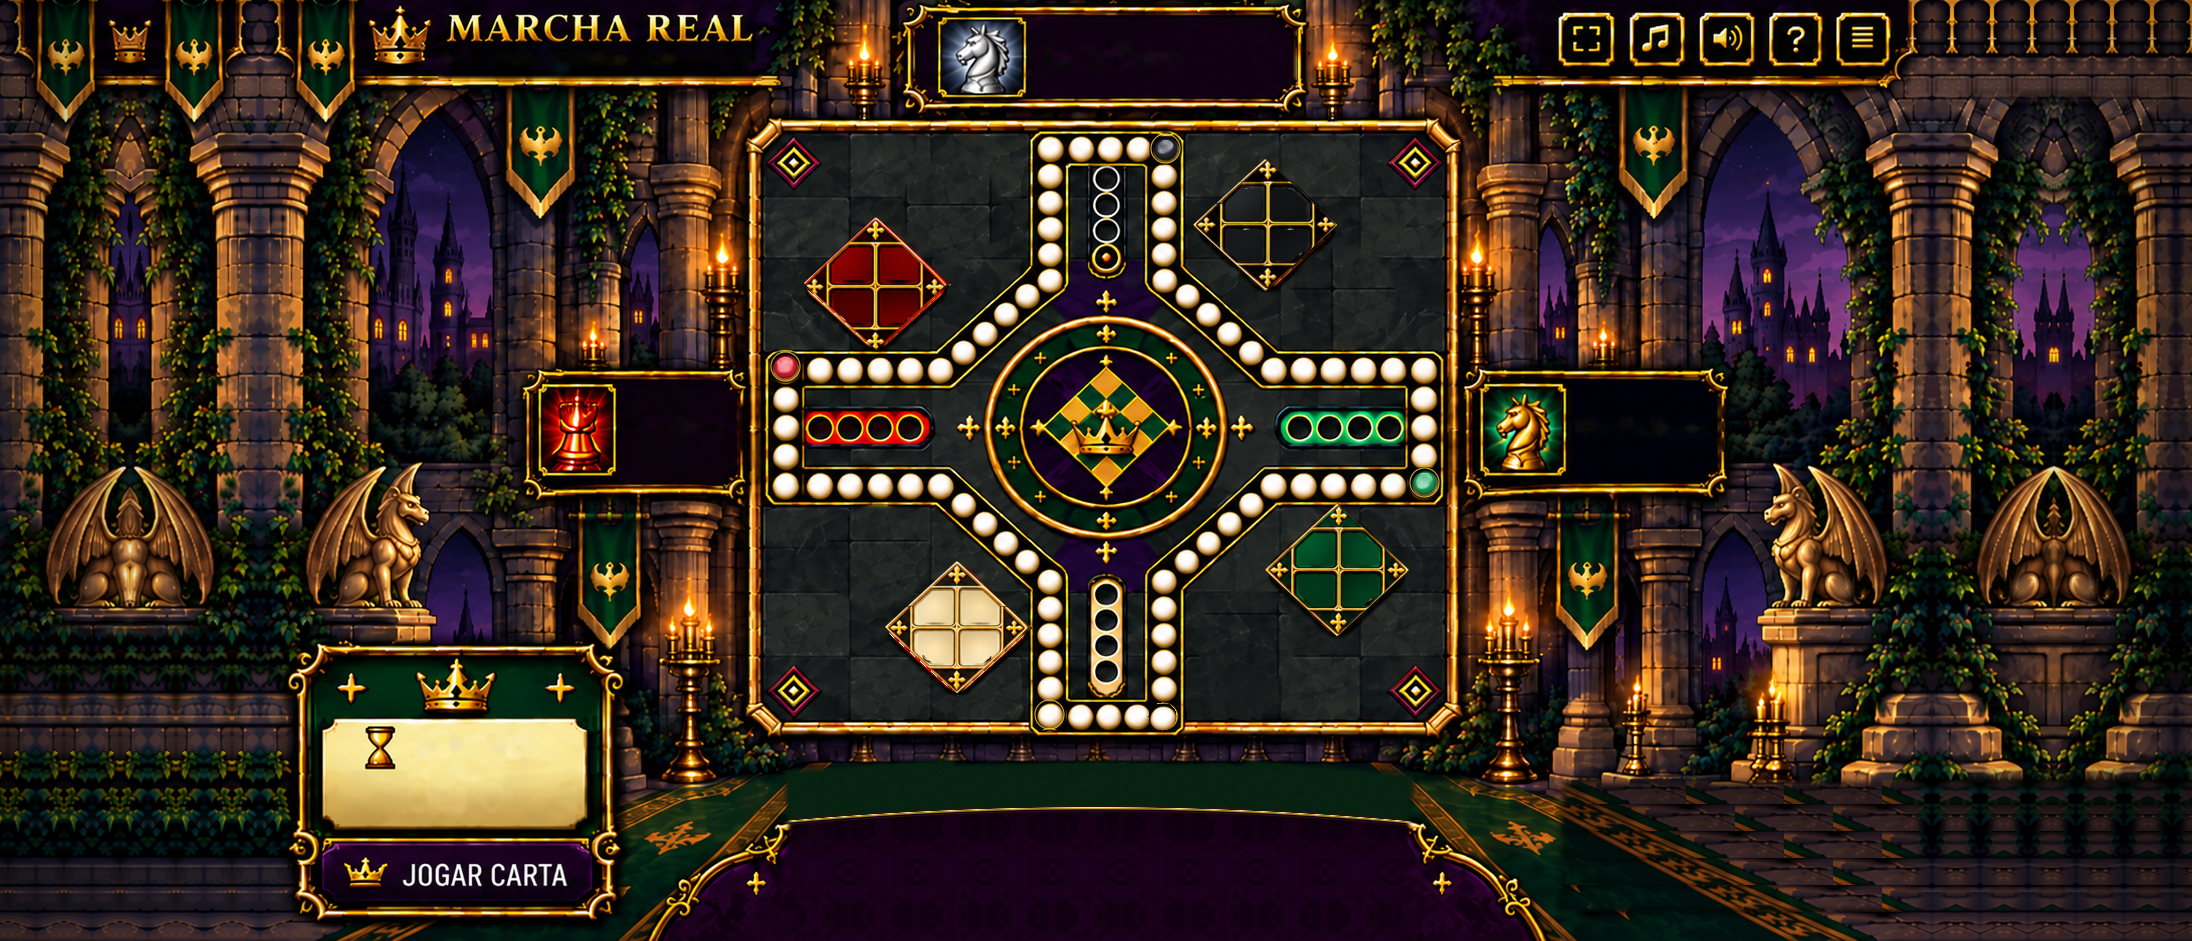
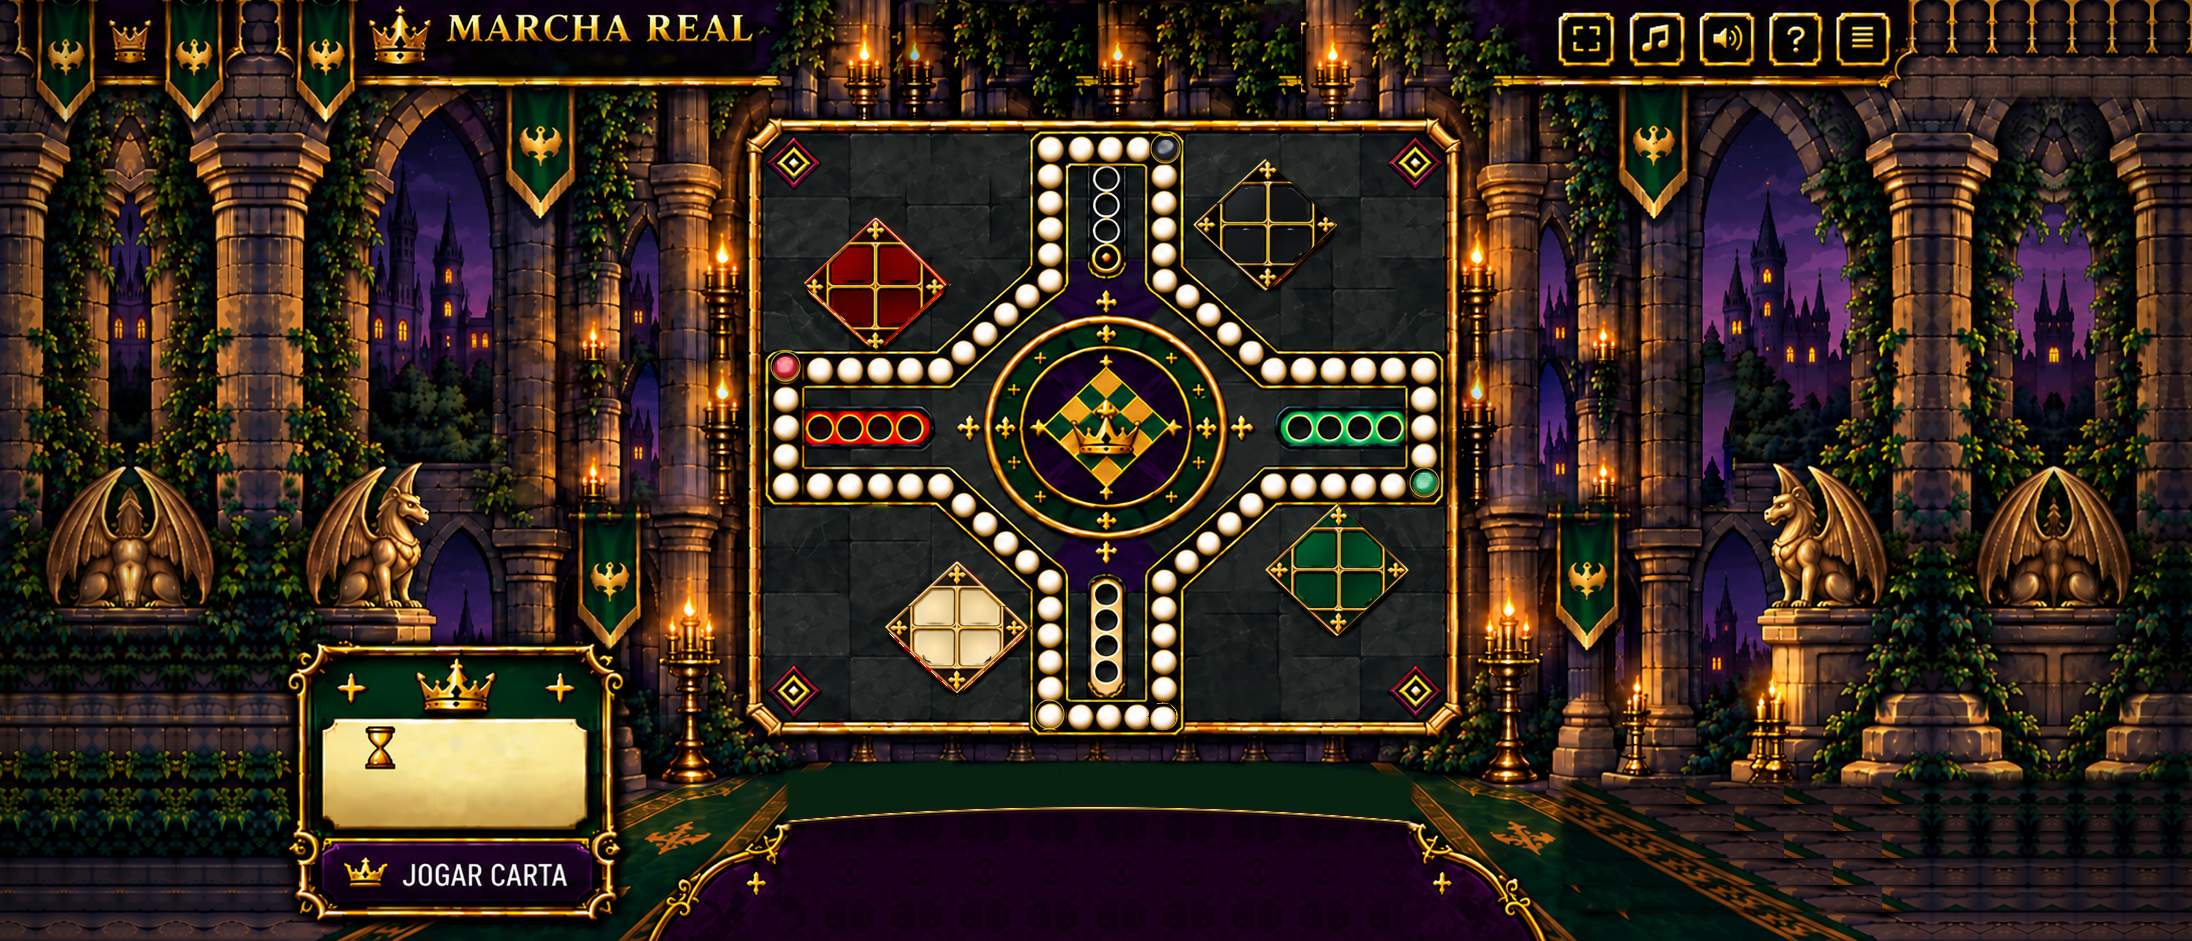
R72 · Marcha: perfis em placas iguais (PC: lado a lado no topo; celular deitado: esquerda/topo/direita)
Claude-Session: https://claude.ai/code/session_016vKvXoMfUjcNC2AWvYdkWV

Changed region(s): [[0.6515, 0.3698, 0.8066, 0.5547], [0.4033, 0.0, 0.6204, 0.1233], [0.2172, 0.3698, 0.3412, 0.5547]]

diff --git a/tools/marcha_board_r66.py b/tools/marcha_board_r66.py
@@ -202,6 +202,65 @@ def remove_panel(a, box):
     return np.clip(res + 0.5, 0, 255).astype(np.uint8)
 
 
+# ---------- R72 · perfis no topo ----------
+def fill_from_above(a, box, pad=6, feather=None, shift=None):
+    """Tira a placa: a parede logo acima desce para o lugar dela (colunas são verticais) e a emenda é resolvida
+    por clonagem de Poisson (as bordas casam com o que está em volta)."""
+    x0,y0,x1,y1 = box; x0-=pad; y0-=pad; x1+=pad; y1+=pad
+    h = y1-y0; sh = shift or h
+    m = 14
+    src = a.copy()
+    src[y0-m:y1+m, x0-m:x1+m] = a[y0-m-sh:y1+m-sh, x0-m:x1+m]
+    mask = np.zeros(a.shape[:2], np.uint8); mask[y0-m//2:y1+m//2, x0-m//2:x1+m//2] = 255
+    c = ((x0+x1)//2, (y0+y1)//2)
+    return cv2.seamlessClone(src, a, mask, c, cv2.NORMAL_CLONE)
+
+SRC_TOP = (645, 4, 1047, 112)          # placa do topo na arte original
+AV_TOP = (681, 19, 762, 94)            # moldura do retrato dentro dela
+SIDE_AV = {1: (279, 385, 355, 474), 3: (1222, 385, 1306, 474)}
+SIDE_BOX = [(262, 371, 486, 495), (1206, 371, 1465, 495)]
+PW = 240                               # largura das placas novas (altura = a da original, 108)
+def seats_top(src, mesa):
+    """R72 · a mesa fica sem as placas dos perfis (laterais e topo viram parede) e as três placas, iguais, viram
+    imagens próprias (placa_perfil_1/2/3.png, com o retrato do bot) que o jogo desenha onde o layout pedir:
+    PC = lado a lado no topo; celular deitado = esquerda / topo / direita."""
+    a = mesa.copy()
+    for b in SIDE_BOX: a = fill_from_above(a, b)
+    x0, y0, x1, y1 = SRC_TOP
+    # topo: a parede à direita da placa (vela, hera) se repete no lugar dela; emenda por Poisson
+    w = x1 - x0
+    srcimg = a.copy()
+    tile = a[0:y1 + 14, x1 + 6:x1 + 6 + w // 2 + 2]
+    for k in range(2):
+        xs = x0 - 10 + k * (w // 2 + 2)
+        srcimg[0:y1 + 14, xs:xs + tile.shape[1]] = tile[:, :min(tile.shape[1], a.shape[1] - xs)]
+    mask = np.zeros(a.shape[:2], np.uint8); mask[1:y1 + 8, x0 - 6:x1 + 6] = 255
+    a = cv2.seamlessClone(srcimg, a, mask, ((x0 + x1) // 2, (y1 + 9) // 2), cv2.NORMAL_CLONE)
+    # placas: corte da placa original com fundo transparente (o que difere da parede refeita é placa)
+    plate = src[y0:y1, x0:x1]
+    diff = np.abs(plate.astype(np.int16) - a[y0:y1, x0:x1].astype(np.int16)).sum(2)
+    # miolo da placa é sempre placa; só na borda (cantos ornamentados) o que é parede fica transparente
+    alpha = np.clip((diff - 50) * 6, 0, 255).astype(np.uint8)
+    alpha[10:-10, 10:-10] = 255
+    alpha = cv2.GaussianBlur(alpha, (0, 0), 0.7)
+    half = PW // 2
+    cut = lambda img: np.concatenate([img[:, :half], img[:, img.shape[1] - (PW - half):]], 1)
+    rgb, al = cut(plate), cut(alpha[..., None])
+    ax0, ay0, ax1, ay1 = [v - o for v, o in zip(AV_TOP, (x0, y0, x0, y0))]
+    for s in (1, 2, 3):
+        p = rgb.copy()
+        if s in SIDE_AV:
+            l, t, r, bb = SIDE_AV[s]
+            por = src[t:bb, l:r]
+            tw, th = ax1 - ax0, ay1 - ay0
+            k = max(tw / por.shape[1], th / por.shape[0])
+            big = cv2.resize(por, (int(np.ceil(por.shape[1] * k)), int(np.ceil(por.shape[0] * k))), interpolation=cv2.INTER_AREA)
+            ox, oy = (big.shape[1] - tw) // 2, (big.shape[0] - th) // 2
+            p[ay0:ay1, ax0:ax1] = big[oy:oy + th, ox:ox + tw]
+        Image.fromarray(np.concatenate([p, al], 2), "RGBA").save(os.path.join(ROOT, "marcha/art/r57/placa_perfil_%d.png" % s), optimize=True)
+    return a
+
+
 def diamond_alpha(w, h, feather=1.5):
     yy, xx = np.mgrid[0:h, 0:w].astype(np.float32)
     d = np.abs(xx - (w - 1) / 2.0) / (w / 2.0) + np.abs(yy - (h - 1) / 2.0) / (h / 2.0)
@@ -217,6 +276,8 @@ def main():
         gate_bead(mesa, (g[0] + ox, g[1] + oy), (nb[0] + ox, nb[1] + oy), GATE_TINT[seat])
     # 0b) R69 · sai o painel "Você" do canto de baixo à direita (cenário refeito por textura)
     mesa = remove_panel(mesa, YOU_PANEL)
+    # 0c) R72 · placas dos três perfis: iguais, lado a lado no topo (as laterais voltam a ser parede)
+    mesa = seats_top(load(MESA_R57), mesa)
     # 1) losangos antigos e círculos de silhueta saem da mesa (recomposição a partir da pedra em volta)
     hole = np.zeros(mesa.shape[:2], np.uint8)
     for (cx, cy) in HOMES_R57.values():
